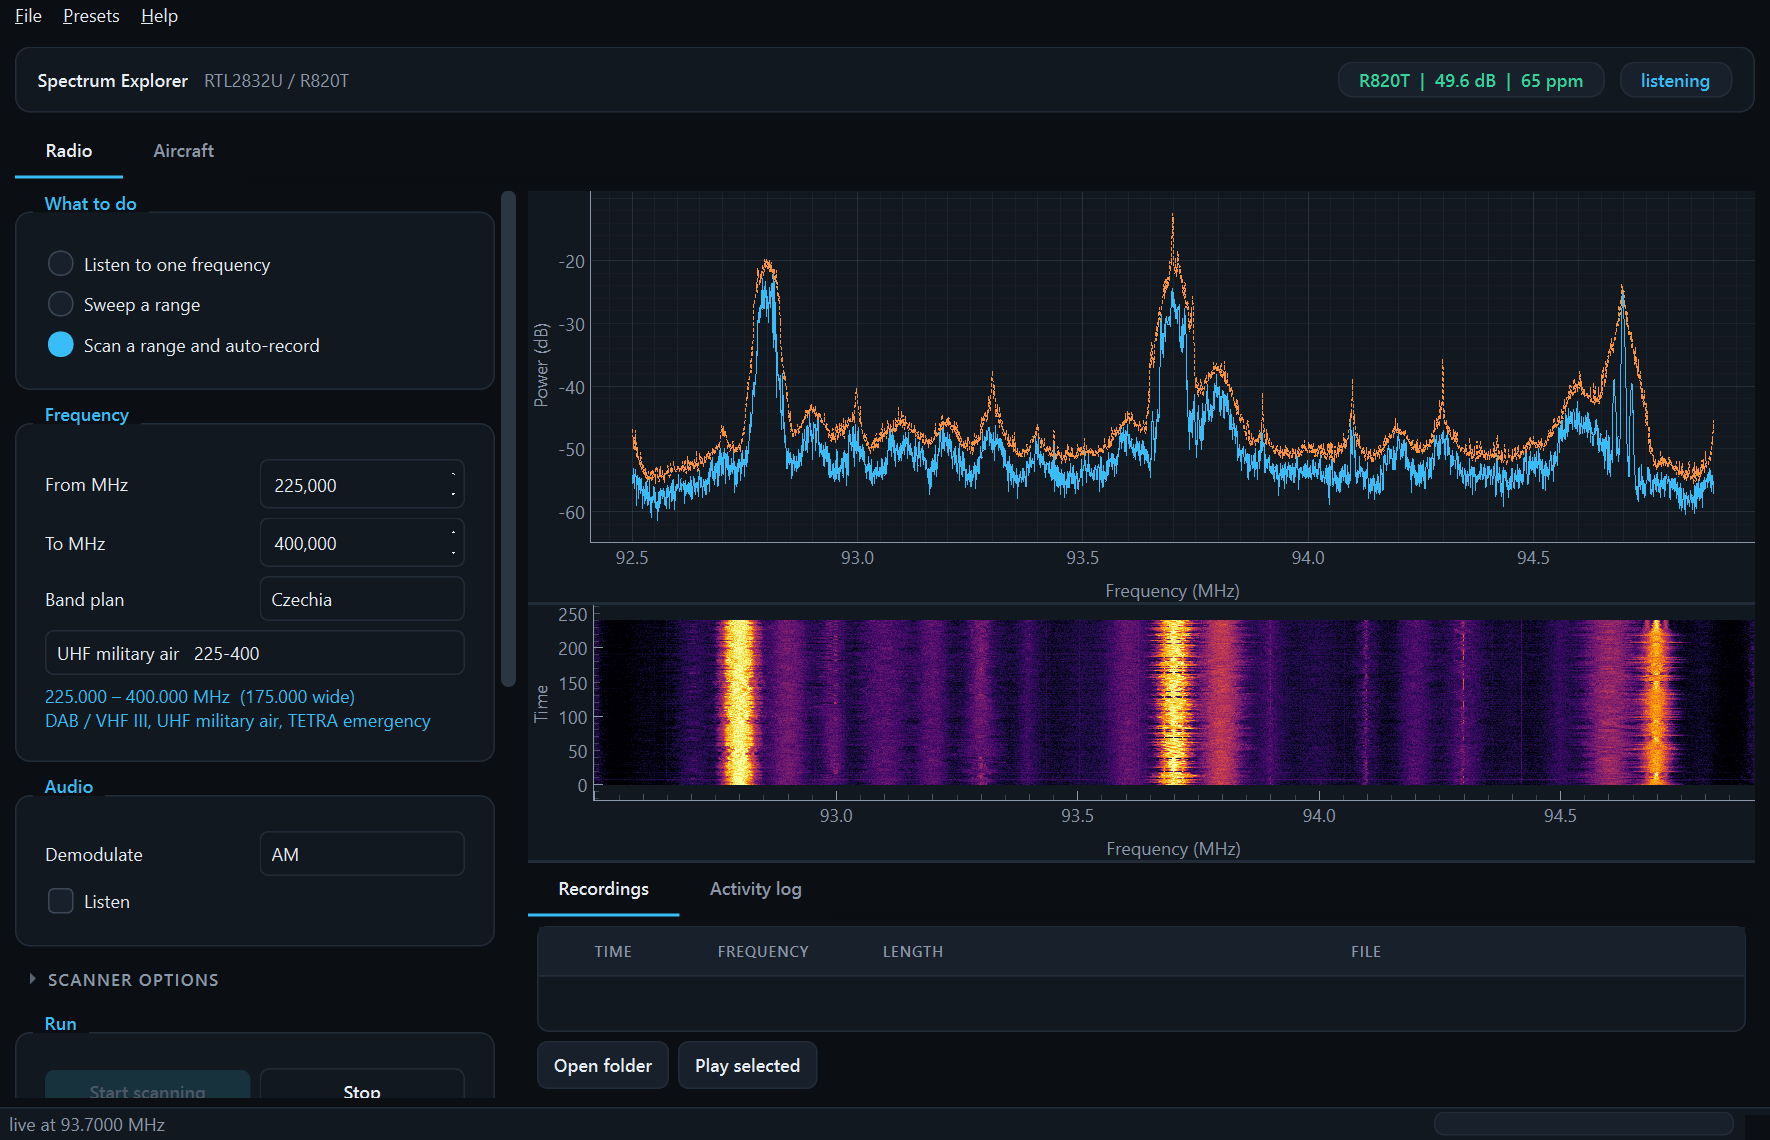
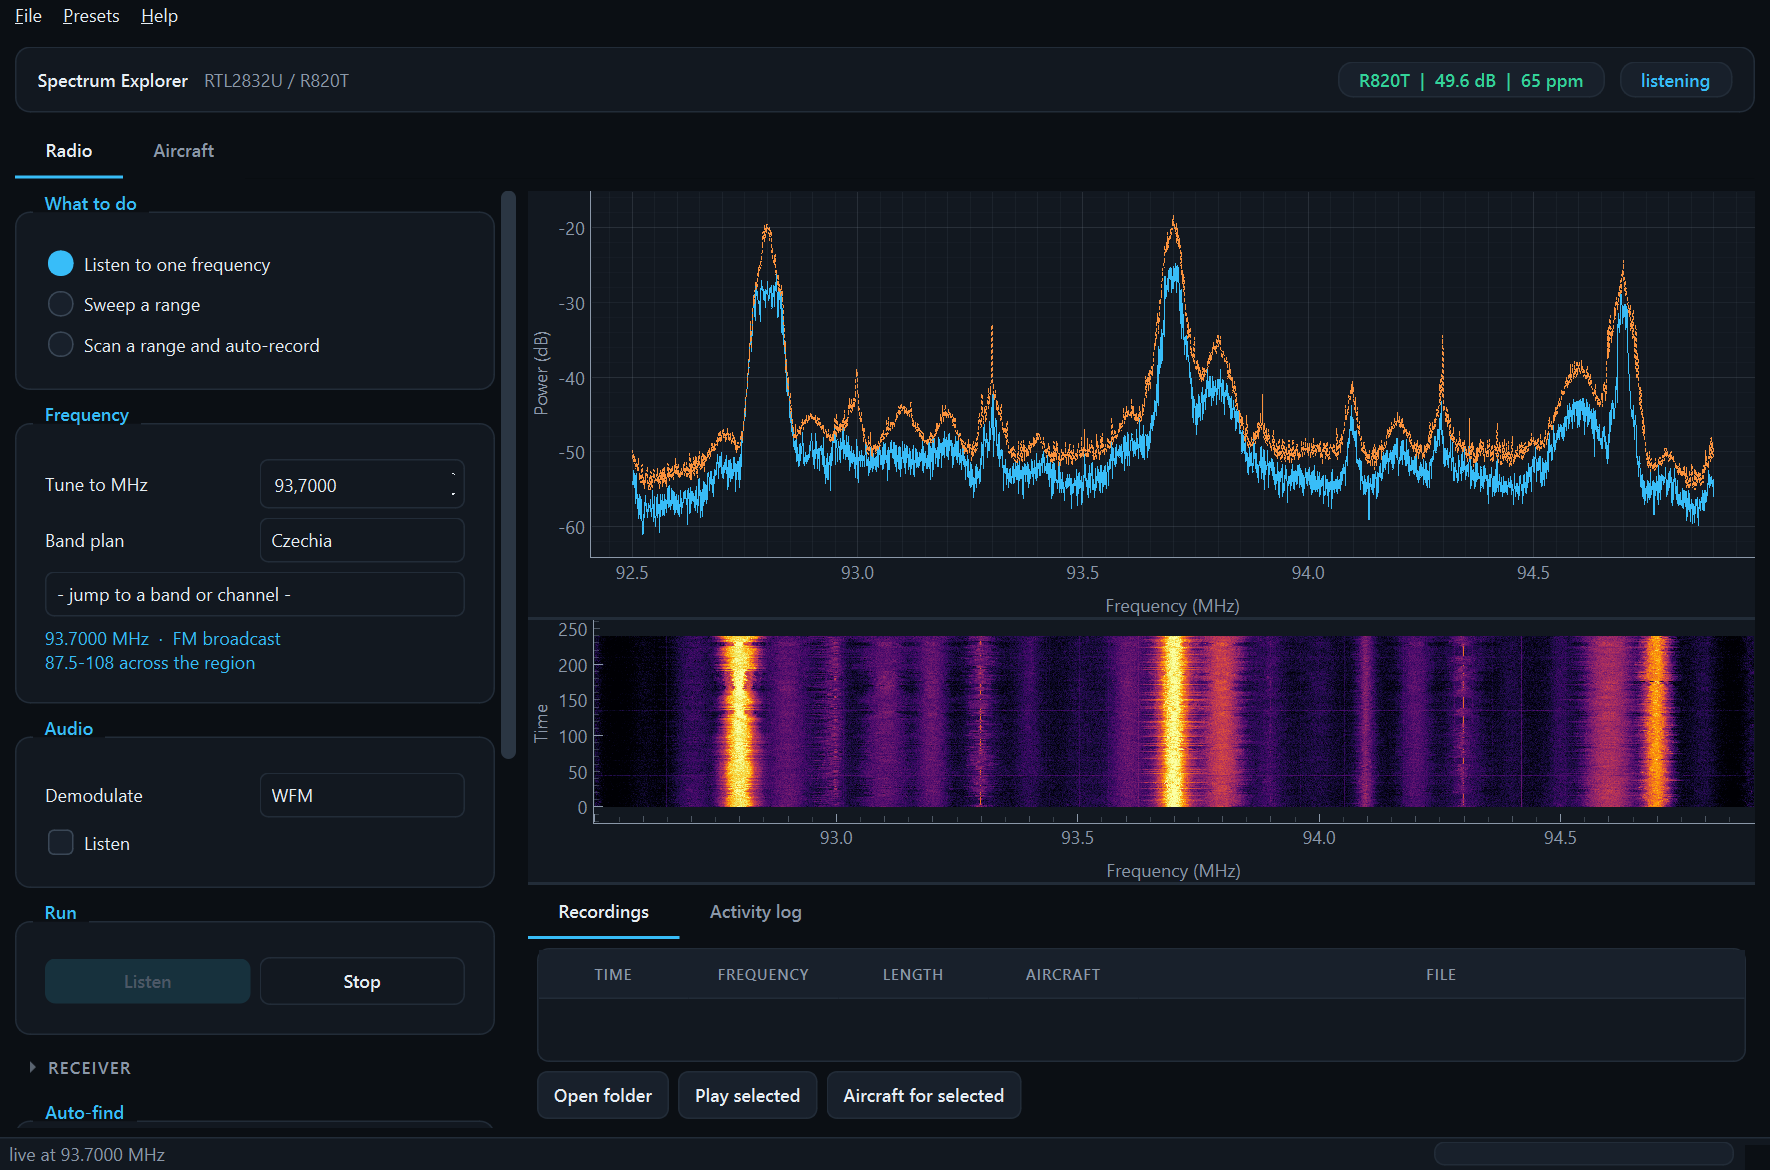
1.0: animated preview, Czech band plan and named channels
- docs/live.gif: 24 frames of a real 93.7 MHz run, waterfall filled before
  capture, shared palette and no dithering so it stays 2.1 MB
- thumb.png retaken; the previous one showed Scan/225-400 while the status bar
  read live at 93.7, captured while the window was being clicked
- Czech licence-free bands from the VO-R general authorisations, with the
  authorisation's own edges rather than rounded ones
- 23 Czech ATC channels (ATIS, TWR, GND, APP and all 15 Praha Radar sectors)
  plus 9 worldwide ones, folded into the existing band dropdown
- 8.333 kHz channel step for the European airband grid
- Picking a digital channel now sets the demodulator to Off instead of
  leaving AM pointed at 1090 MHz
- Mode and frequency lock while a job runs, so the panel cannot describe
  something other than what is on the air

diff --git a/bandplan.py b/bandplan.py
@@ -74,8 +74,21 @@ REGIONS = {1: REGION_1, 2: REGION_2, 3: REGION_3}
 # --- national differences worth knowing ----------------------------------
 # "replace" swaps an entry of the same name; "extra" adds one.
 COUNTRIES = {
+    # Licence-free allocations from the Czech general authorisations (VO-R),
+    # via kmitocty.cz. Ranges are the authorisation's own, not rounded.
     "CZ": dict(name="Czechia", region=1, extra=[
-        Band("Czech railway", 150.0, 160.0, "NFM", "shunting and station radio"),
+        Band("CB 27 MHz", 26.565, 27.405, "AM",
+             "VO-R/7, 80 channels AM, SSB on 1-40; at the tuner's bottom edge"),
+        Band("Shared VHF low", 34.050, 34.175, "NFM", "VO-R/16 shared channels"),
+        Band("Shared 77-81", 77.025, 81.750, "NFM", "VO-R/16 shared channels"),
+        Band("Shared digital 87", 87.430, 87.470, "NFM", "VO-R/16, just below FM"),
+        Band("Shared digital 149", 149.125, 149.250, "NFM", "VO-R/16"),
+        Band("Shared digital 155", 155.725, 156.150, "NFM", "VO-R/16"),
+        Band("Shared 172-173", 172.650, 173.050, "NFM", "VO-R/16 shared channels"),
+        Band("Shared 442", 442.200, 442.275, "NFM", "VO-R/16 shared channels"),
+        Band("Shared digital 448", 448.070, 448.170, "NFM", "VO-R/16"),
+        Band("Shared 448", 448.490, 448.610, "NFM", "VO-R/16 shared channels"),
+        Band("Shared 449", 449.770, 449.810, "NFM", "VO-R/16 shared channels"),
     ]),
     "SK": dict(name="Slovakia", region=1),
     "PL": dict(name="Poland", region=1),
@@ -171,3 +184,53 @@ def demod_for(freq_hz, code=DEFAULT_COUNTRY):
         if best.demod != "Off":
             return best.demod
     return "NFM"
+
+
+# --- named channels -------------------------------------------------------
+# Single frequencies worth jumping straight to. (name, MHz, demodulator)
+Channel = namedtuple("Channel", "name mhz demod")
+
+COMMON_CHANNELS = [
+    Channel("Emergency guard 121.5", 121.500, "AM"),
+    Channel("Military guard 243.0", 243.000, "AM"),
+    Channel("ACARS 131.550", 131.550, "AM"),
+    Channel("ACARS Europe 131.725", 131.725, "AM"),
+    Channel("Marine ch16 distress", 156.800, "NFM"),
+    Channel("NOAA-15 APT", 137.620, "NFM"),
+    Channel("NOAA-18 APT", 137.9125, "NFM"),
+    Channel("NOAA-19 APT", 137.100, "NFM"),
+    Channel("ADS-B 1090", 1090.000, "Off"),
+]
+
+# Czech ATC, from the airspace and frequency tables at kmitocty.cz
+CHANNELS = {
+    "CZ": [
+        Channel("Praha ATIS", 122.160, "AM"),
+        Channel("Praha TOWER", 134.560, "AM"),
+        Channel("Praha GROUND", 121.910, "AM"),
+        Channel("Praha DELIVERY", 120.060, "AM"),
+        Channel("Praha APRON", 121.710, "AM"),
+        Channel("Praha CTR", 118.310, "AM"),
+        Channel("Praha DEPARTURE", 120.530, "AM"),
+        Channel("Praha APPROACH", 127.580, "AM"),
+        Channel("Praha Radar West", 118.650, "AM"),
+        Channel("Praha Radar West FL125-305", 120.275, "AM"),
+        Channel("Praha Radar West FL305-355", 135.135, "AM"),
+        Channel("Praha Radar West FL355-375", 132.065, "AM"),
+        Channel("Praha Radar West FL375+", 133.530, "AM"),
+        Channel("Praha Radar South", 127.350, "AM"),
+        Channel("Praha Radar South FL125-305", 127.125, "AM"),
+        Channel("Praha Radar South FL305-355", 133.410, "AM"),
+        Channel("Praha Radar South FL355-375", 132.890, "AM"),
+        Channel("Praha Radar South FL375+", 134.590, "AM"),
+        Channel("Praha Radar North", 119.375, "AM"),
+        Channel("Praha Radar North FL125-305", 127.825, "AM"),
+        Channel("Praha Radar North FL305-355", 128.230, "AM"),
+        Channel("Praha Radar North FL355-375", 133.390, "AM"),
+        Channel("Praha Radar North FL375+", 132.805, "AM"),
+    ],
+}
+
+
+def channels_for(code):
+    return list(CHANNELS.get(code, [])) + list(COMMON_CHANNELS)

diff --git a/main.py b/main.py
@@ -1364,13 +1364,22 @@ class MainWindow(QMainWindow):
         return self.cb_country.currentData() or bp.DEFAULT_COUNTRY
 
     def _rebuild_band_list(self):
+        """
+        Bands and named channels share one combo: a country's ATC or weather
+        frequencies are the thing you actually want to jump to, and giving
+        them their own control would be one more box to read.
+        """
         self._bands = bp.bands_for(self.country())
+        self._channels = bp.channels_for(self.country())
         self.cb_band.blockSignals(True)
         self.cb_band.clear()
-        self.cb_band.addItem("- jump to a band -")
+        self.cb_band.addItem("- jump to a band or channel -")
         for b in self._bands:
             self.cb_band.addItem(f"{b.name}   {b.lo:g}-{b.hi:g}")
         self.cb_band.addItem("Full tuner range   24-1766")
+        self.cb_band.insertSeparator(self.cb_band.count())
+        for c in self._channels:
+            self.cb_band.addItem(f"{c.mhz:>9.4f}  {c.name}")
         self.cb_band.blockSignals(False)
 
     def _on_country_change(self, *_):
@@ -1383,16 +1392,31 @@ class MainWindow(QMainWindow):
     def _on_band_pick(self, idx):
         if idx <= 0:
             return
-        if idx - 1 < len(self._bands):
+        n_bands = len(self._bands)
+        if idx - 1 < n_bands:                            # a band: set the range
             b = self._bands[idx - 1]
             self.sp_start.setValue(b.lo)
             self.sp_stop.setValue(b.hi)
             self.sp_center.setValue(round((b.lo + b.hi) / 2, 4))
             if b.demod != "Off":
                 self.cb_demod.setCurrentText(b.demod)
-        else:
+        elif idx - 1 == n_bands:                         # full tuner range
             self.sp_start.setValue(24.0)
             self.sp_stop.setValue(1766.0)
+        else:                                            # a channel: tune it
+            ch_i = idx - n_bands - 3                     # skip full-range + separator
+            if 0 <= ch_i < len(self._channels):
+                c = self._channels[ch_i]
+                self.rb_live.setChecked(True)
+                self.sp_center.setValue(c.mhz)
+                self.cb_demod.setCurrentText(c.demod)
+                if c.demod == "Off":
+                    # a digital channel: audio would be meaningless here
+                    self.statusBar().showMessage(
+                        f"{c.name} - {c.mhz:.4f} MHz is digital; "
+                        f"use the Aircraft tab for 1090 MHz", 10000)
+                else:
+                    self.statusBar().showMessage(f"{c.name} - {c.mhz:.4f} MHz")
         self._update_band_label()
 
     def _log(self, widget, text):

diff --git a/README.md b/README.md
@@ -5,6 +5,10 @@ a spectrum, unattended voice recordings, or aircraft on a map.
 
 ![rtl-spectrum](thumb.png)
 
+Live FM broadcast band, peak hold on the trace and the waterfall running underneath:
+
+![live spectrum and waterfall](docs/live.gif)
+
 Broadcasters moved to DVB-T2 and the cheap RTL2832U sticks stopped receiving
 television. The DVB-T demodulator in them cannot be upgraded — that is a
 different chip, not a firmware level — but the tuner still hands over raw IQ
@@ -71,13 +75,32 @@ the app, or point the environment variables below at them.
 | Group | What matters |
 |---|---|
 | **What to do** | Listen / Sweep / Scan — the fields below change to match |
-| **Frequency** | one frequency, or a range; band presets; the selected band is named under them |
-| **Audio** | WFM / NFM / AM, Listen, peak hold |
-| **Scanner** | channel step, squelch dB, hang time, discard-under, skip dongle spurs, output folder |
-| **Receiver** | sample rate, gain, **ppm**, FFT size, which dongle |
+| **Frequency** | one frequency, or a range; a country band plan with named channels; the selected band is named beneath |
+| **Audio** | WFM / NFM / AM, and Listen |
+| **Scanner options** | channel step (**8.333 kHz** for European airband), squelch dB, hang time, discard-under, skip dongle spurs, output folder |
+| **Receiver** | sample rate, gain, **ppm**, FFT size, peak hold, which dongle |
 | **Auto-find** | scan the current range and list carriers with their band |
 | **Record** | audio WAV, raw IQ, trace CSV, chart PNG |
 | **Aircraft** | your position for range rings and distance, map source, dark basemap, which dongle |
+
+### Band plans
+
+24 countries across the three ITU regions. The selection drives frequency
+labelling, the jump list and the automatic demodulator: FM is **76-95 MHz in
+Japan**, licence-free UHF differs everywhere, and the UK warns that listening
+beyond broadcast and amateur is an offence there.
+
+The same dropdown carries **named channels** — pick one and it tunes straight
+to it. The Czech entries (Praha ATIS, TOWER, GROUND, APPROACH and all fifteen
+Praha Radar sector frequencies) and the licence-free VO-R allocations come
+from [kmitocty.cz](https://www.kmitocty.cz/vzdusne-prostory-cr-a-komunikacni-frekvence/)
+and its [list of general authorisations](https://www.kmitocty.cz/vseobecna-opravneni/).
+The official source for Czech airspace is the
+[VFR manual at aim.rlp.cz](https://aim.rlp.cz).
+
+Start with an **ATIS**: it is a looped recording transmitting continuously, so
+it tells you whether your antenna can hear the airband at all, which a sector
+frequency that is merely quiet cannot.
 
 Presets: four built-ins (FM radio, Airband scan + record, Whole-band survey,
 Aircraft), plus save / load / delete / import / export and *save current as
@@ -153,6 +176,13 @@ No dongle required; exit 0 only if actual output was produced.
 ## Changes in 1.0
 
 - First release, built to the [hclivess house standard](https://github.com/hclivess/beautiful-software).
+- Radio tab merges listening, sweeping and scanning: one frequency control,
+  one demodulator, one Start. Everything not needed to press Start sits behind
+  a disclosure.
+- Band plans for 24 countries, with named channels per country.
+- Recordings carry an aircraft sidecar (`<file>.wav.json`). With one dongle the
+  two modes cannot run together, so it records the data's age; with a second
+  dongle selected on each tab they run at once and the link is live.
 
 ## Legality
 
